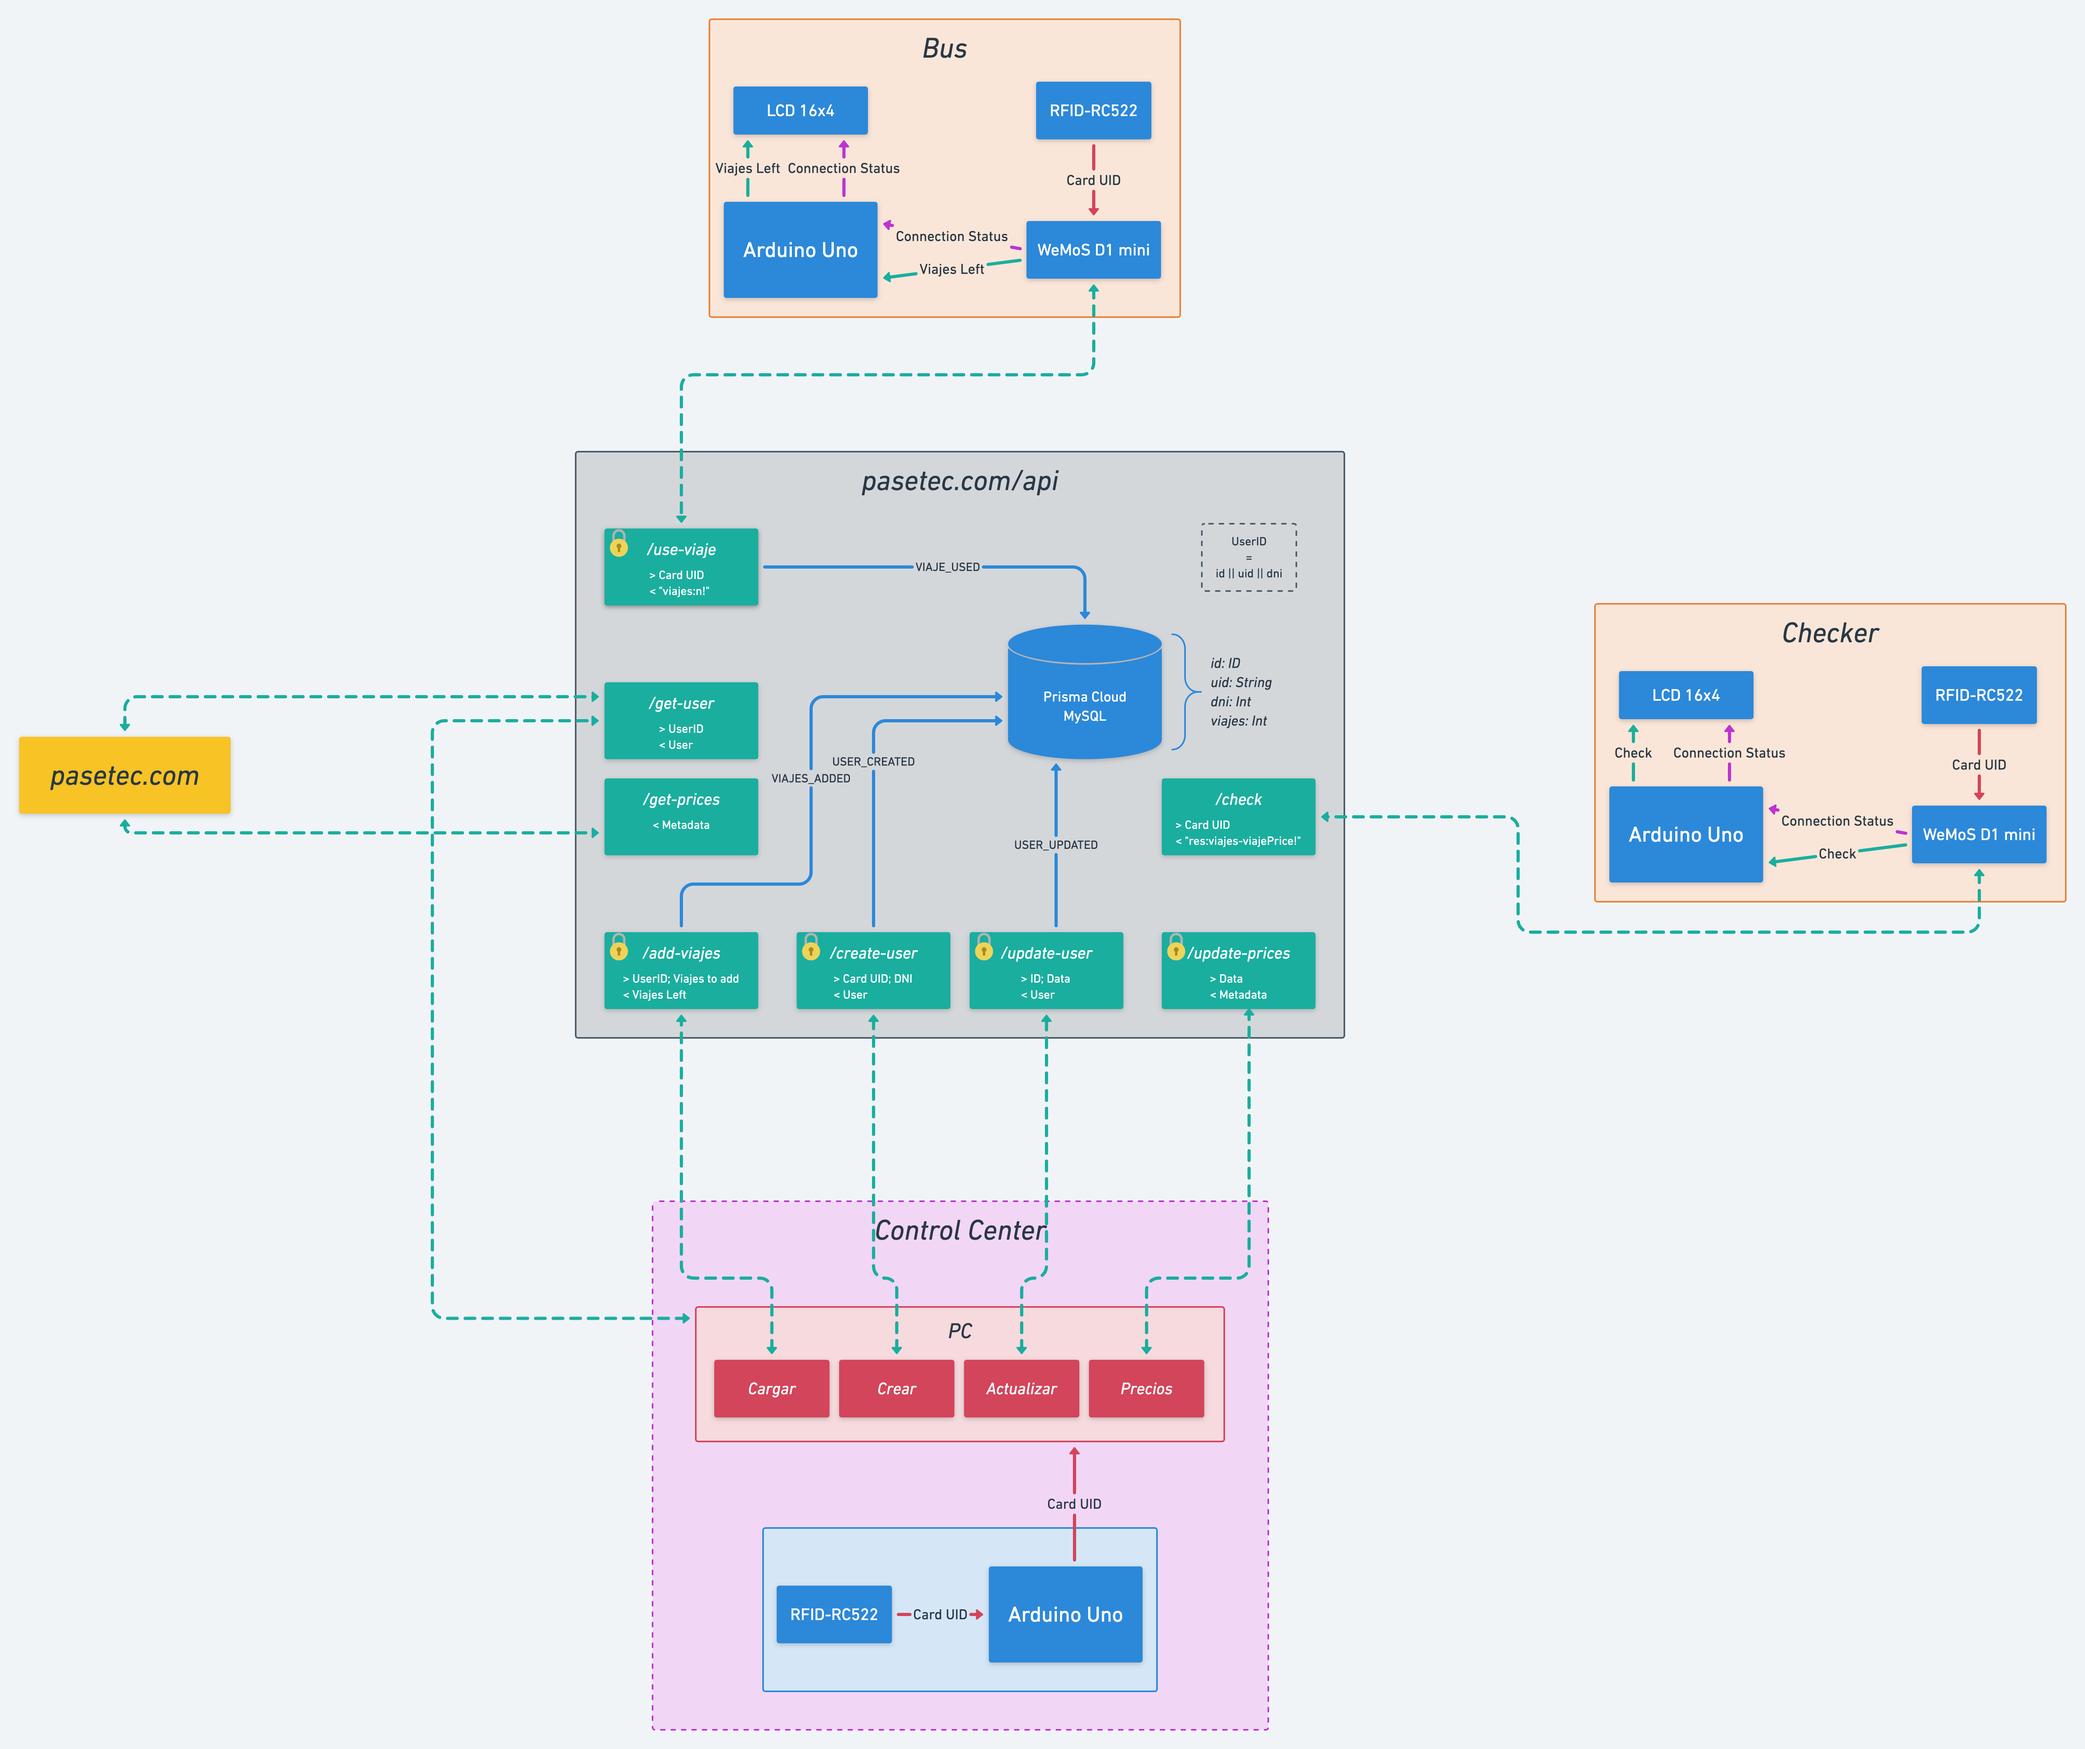
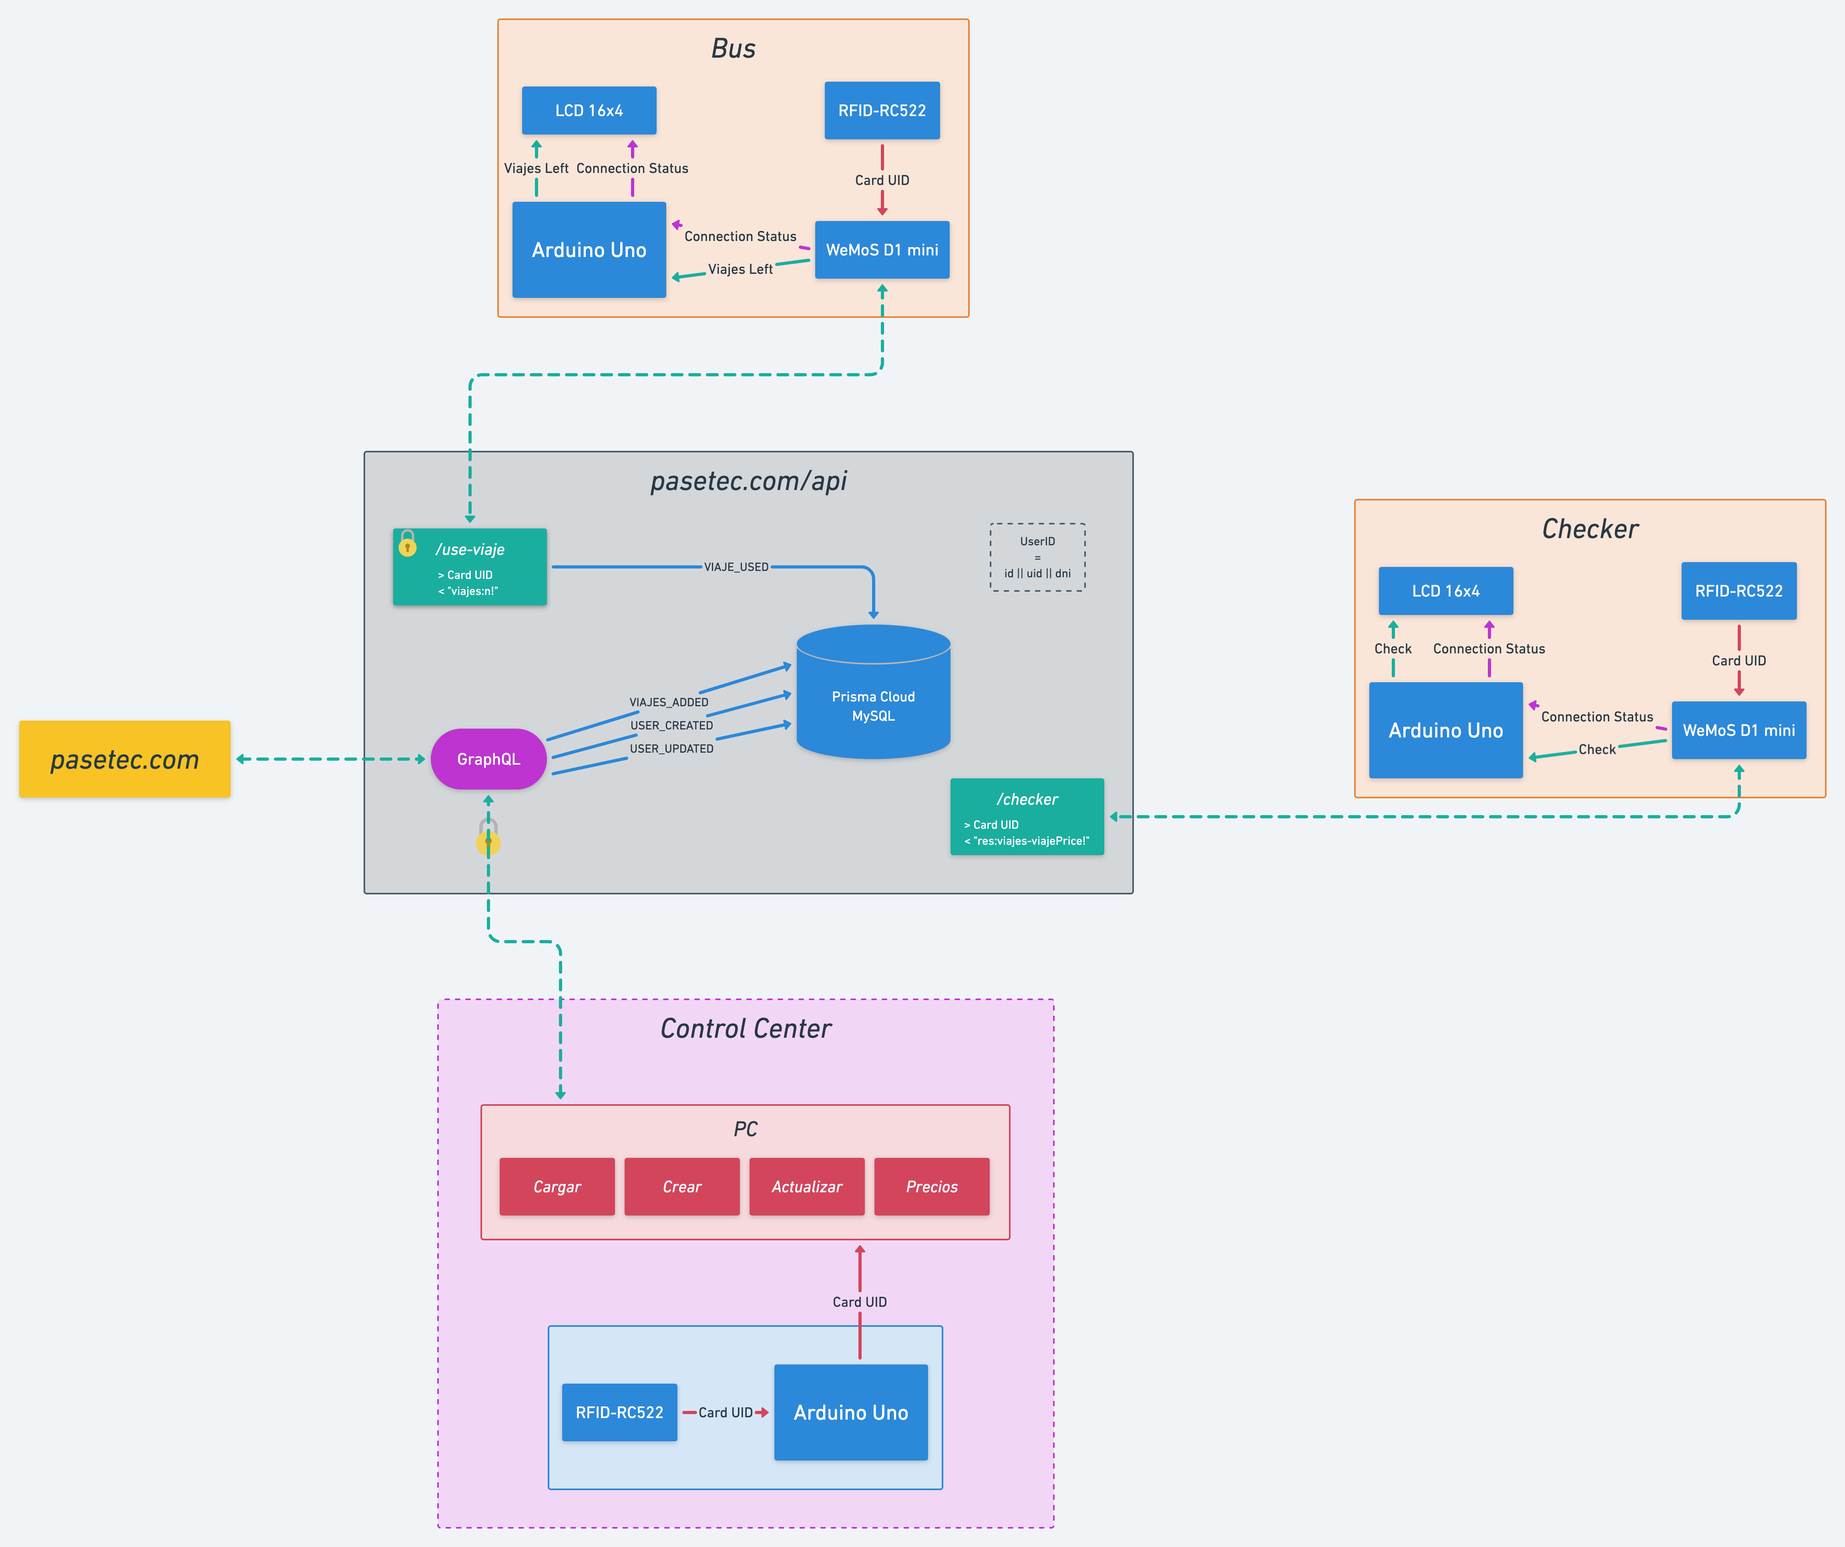
Updated documentation

diff --git a/web/README.md b/web/README.md
@@ -2,16 +2,17 @@ English | [Español](README.es.md)
 
 # PaseTec – _Web_
 
-[Create React App](https://facebook.github.io/create-react-app/) with a Service Worker and an [Express]([https://expressjs.com/](https://expressjs.com/)) API that communicates to a [Prisma](https://www.prisma.io/) database, all uploaded to [Now](https://zeit.co/now).
+[Create React App](https://facebook.github.io/create-react-app/) with a Service Worker and an [Micro](https://github.com/zeit/micro) and [GraphQL](https://graphql.org/) (with [Apollo Server](https://www.apollographql.com/docs/apollo-server/) and [graphql.js](https://github.com/f/graphql.js)) API that communicates to a [Prisma](https://www.prisma.io/) database, all uploaded to [Now](https://zeit.co/now).
 
 ## Setup
 
-You'll need [Node](https://nodejs.org/en/) AND [Yarn](https://yarnpkg.com/en/) installed.
+You'll need [Node](https://nodejs.org/en/) AND [Yarn](https://yarnpkg.com/en/) installed (plus Now CLI and Prisma CLI).
 
 ```bash
-# Install Now
-$ yarn global add now
+# Install Now and Prisma
+$ yarn global add now prisma
 $ now login
+$ prisma login
 
 $ cd pasetec/web
 $ yarn install
@@ -22,6 +23,7 @@ $ yarn install
 ```
 web/
 |-- api/
+  |-- graphql/
 |-- prisma/
 |-- public/
 |-- src/
@@ -31,7 +33,8 @@ web/
 |-- now.json
 ```
 
-- **`api/`**: Each API endpoint (Express)
+- **`api/`**: Each API endpoint (Mirco)
+- **`graphql/`**: Apollo Server
 - **`prisma/`**: Prisma datamodel and JavaScript client
 - **`public/`**: Public files of Create React App
 - **`App.js`**: Create React App home

diff --git a/web/README.es.md b/web/README.es.md
@@ -2,16 +2,17 @@
 
 # PaseTec – _Web_
 
-[Create React App](https://facebook.github.io/create-react-app/) con un Service Worker y una API en [Express]([https://expressjs.com/](https://expressjs.com/)) que se comunica con una base de datos [Prisma](https://www.prisma.io/), todo subido a [Now](https://zeit.co/now).
+[Create React App](https://facebook.github.io/create-react-app/) con un Service Worker y una API en [Micro](https://github.com/zeit/micro) y [GraphQL](https://graphql.org/) (con un [Apollo Server](https://www.apollographql.com/docs/apollo-server/) y [graphql.js](https://github.com/f/graphql.js)) que se comunica con una base de datos [Prisma](https://www.prisma.io/), todo subido a [Now](https://zeit.co/now).
 
 ## Preparación
 
-Necesitás tener [Node](https://nodejs.org/en/) Y [Yarn](https://yarnpkg.com/en/) instalados.
+Necesitás tener [Node](https://nodejs.org/en/) Y [Yarn](https://yarnpkg.com/en/) instalados (más Now CLI y Prisma CLI).
 
 ```bash
-# Instalá Now
-$ yarn global add now
+# Instalá Now y Prisma
+$ yarn global add now prisma
 $ now login
+$ prisma login
 
 $ cd pasetec/web
 $ yarn install

diff --git a/control-center/README.es.md b/control-center/README.es.md
@@ -22,6 +22,9 @@ $ yarn electron-rebuild # Más información en https://serialport.io/docs/guide-
 ```
 control-center/
 |-- public/
+|-- utils/
+  |-- listeners.js
+  |-- pack.js
 |-- src/
   |-- actions/
   |-- components/
@@ -35,6 +38,8 @@ control-center/
 - **`App.js`**: Inicio de Create React App
 - **`.env`**: Acá van las variables de entorno. Seguí `.env.example` para crearlo
 - **`main.js`**: Código de Electron
+- **`listeners.js`**: Peticiones de Electron a la API
+- **`pack.js`**: Configuración de Electron Packager
 
 ## Desarrollo
 

diff --git a/control-center/README.md b/control-center/README.md
@@ -22,6 +22,9 @@ $ yarn electron-rebuild # More info in https://serialport.io/docs/guide-installa
 ```
 control-center/
 |-- public/
+|-- utils/
+  |-- listeners.js
+  |-- pack.js
 |-- src/
   |-- actions/
   |-- components/
@@ -35,6 +38,8 @@ control-center/
 - **`App.js`**: Create React App home
 - **`.env`**: There go the env vars. Follow `.env.example` to create it
 - **`main.js`**: Electron code
+- **`listeners.js`**: Electron requests to API
+- **`pack.js`**: Electron Packager config
 
 ## Developing
 

diff --git a/arduino/README.es.md b/arduino/README.es.md
@@ -2,7 +2,7 @@
 
 # PaseTec – _Arduino_
 
-Arduino Uno, WeMoS D1 mini y RFID-RC522.
+Cajas de Arduino.
 
 ## Preparación
 
@@ -55,11 +55,14 @@ arduino/
 
 ### Colectivo y Consultor
 
+Arduino Uno, WeMoS D1 mini, RFID-RC522, LCD 16x4 y Buzzer/Zumbador/Coso-que-hace-ruido.
 El Consultor es igual al Colectivo pero sin el buzzer.
 
 ![Colectivo](bus/bus.png)
 
 ### Centro de Control
+
+Arduino Uno y RFID-RC522.
 
 ![Centro de Control](control-center/control-center.png)
 

diff --git a/arduino/README.md b/arduino/README.md
@@ -2,7 +2,7 @@ English | [Español](README.es.md)
 
 # PaseTec – _Arduino_
 
-Arduino Uno, WeMoS D1 mini and RFID-RC522.
+Arduino Boxes.
 
 ## Setup
 
@@ -55,11 +55,14 @@ arduino/
 
 ### Bus and Checker
 
+Arduino Uno, WeMoS D1 mini, RFID-RC522, LCD 16x4 & Buzzer.
 The Checker is like the Bus without the buzzer.
 
 ![Bus](bus/bus.png)
 
 ### Control Center
+
+Arduino Uno & RFID-RC522.
 
 ![Control Center](control-center/control-center.png)
 
